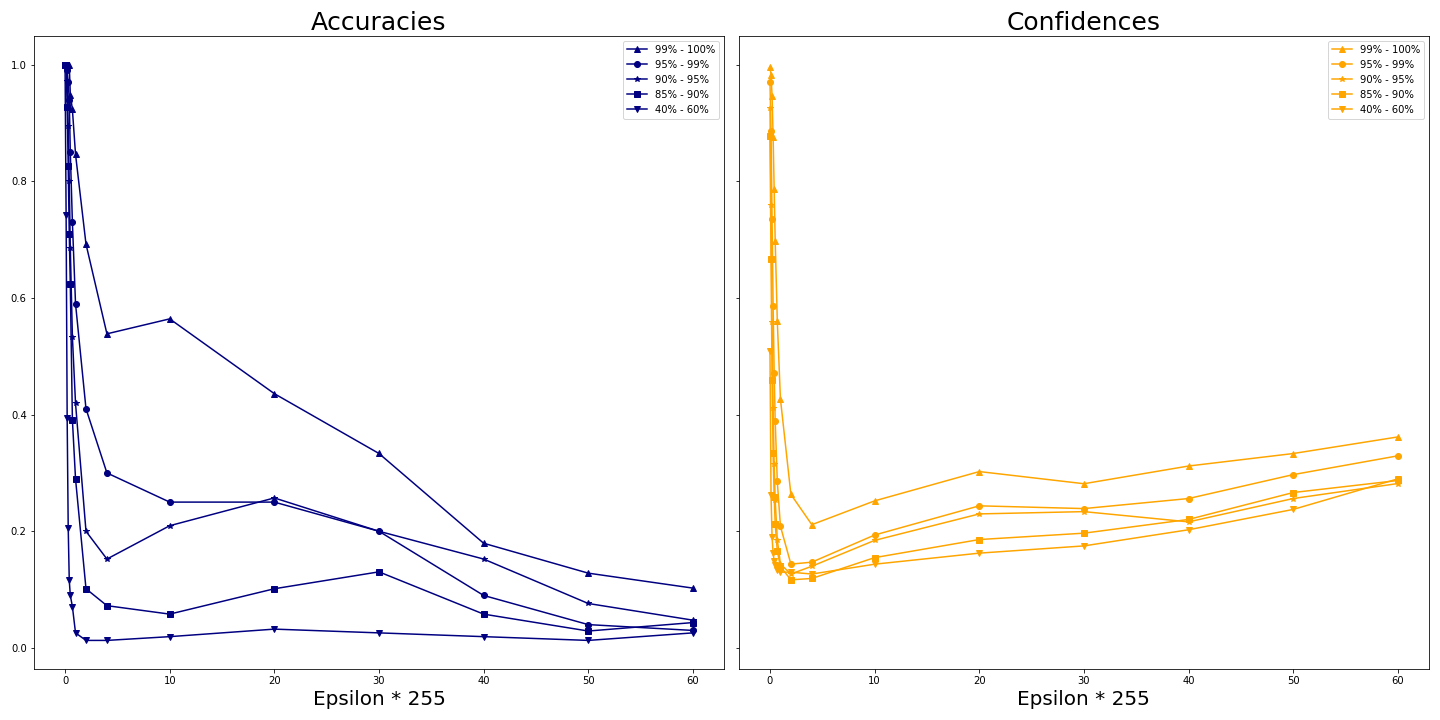
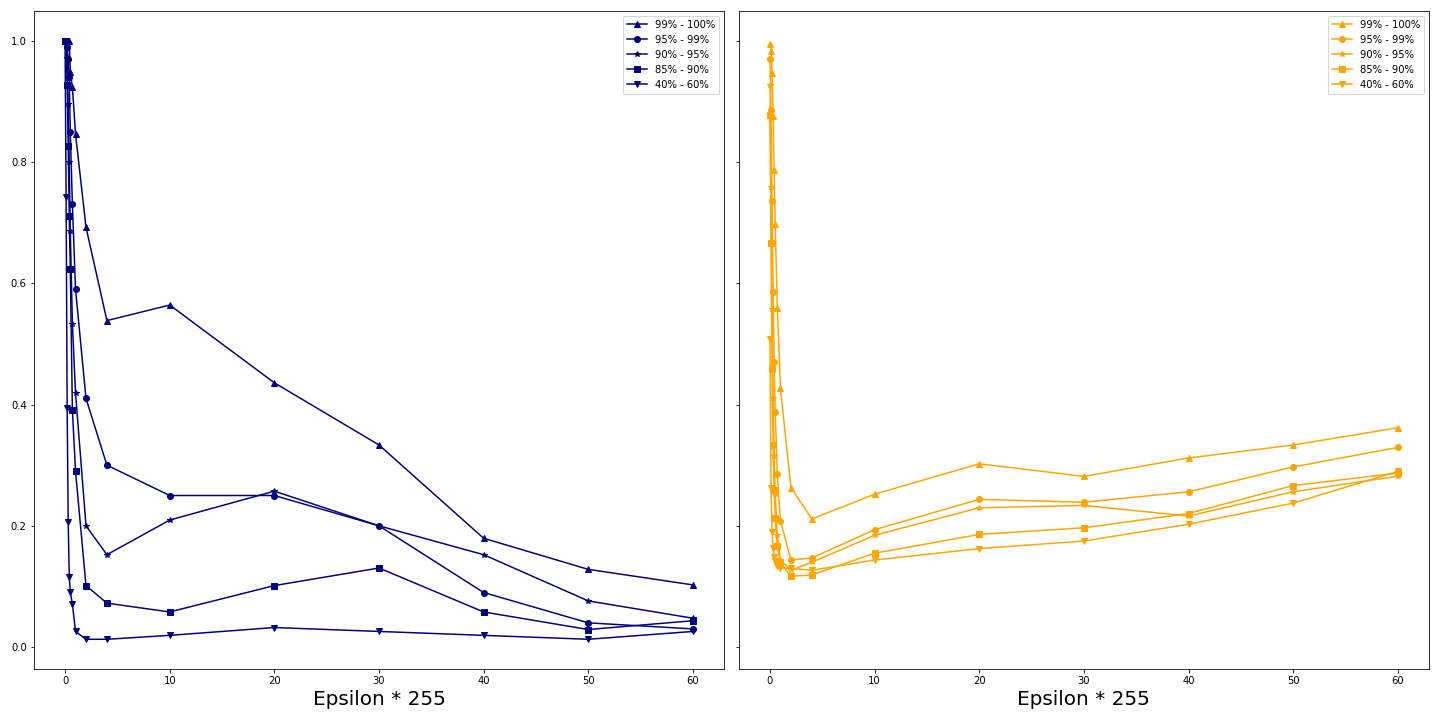
Updated main page and results section

diff --git a/docs/_sass/_layout.scss b/docs/_sass/_layout.scss
@@ -5,6 +5,7 @@ body {
     font-size: 1.1em;
     line-height: 1.6;
     -webkit-font-smoothing: antialiased;
+    scroll-behavior: smooth;
   }
   h1,
   h2,
@@ -40,9 +41,10 @@ body {
  
   header {
     background: $header;
-    padding: 50px 0px;
-    margin: 0px 0 0;
-    height: auto;
+    padding-top: 100px;
+    padding-bottom: 250px;
+    margin: auto;
+    height: 100%;
     width: 100%;
     text-decoration: bold;
     max-width: 8000px;
@@ -251,4 +253,12 @@ body {
       text-align: center;
       font-size: small;
     }
+  }
+
+  figure
+  {
+    font-size: small;
+    color: #444444;
+    max-width: $content-width;
+
   }

diff --git a/docs/_includes/main.html b/docs/_includes/main.html
@@ -1,10 +1,16 @@
 <div class="container">
 	<header>
 		<div class="column">
-			<img src="assets/Main_Page.png" alt="Test Image here" style="width:100%;height:auto;" position: absolute; top: 0; left:0;>
+
+<div style="color:white"> How robust are neural network outputs? </div>	
+
+<div style="color:white"> Consider the following example </div>
+<br>
+			<img src="assets/Main_Page.png" alt="Main page image" style="width:100%;height:auto;" position: absolute; top: 0; left:0;>
 		</div>
 
 		
+
 	</header>
 
 </div>

diff --git a/docs/_includes/image.html b/docs/_includes/image.html
@@ -1,3 +1,4 @@
-<img src="{{ site.baseurl | prepend: site.url | relative_url  }}/assets/{{ include.file }}" width="500" height="600" alt="{{ include.description }}">
-<span class="caption">{{ include.description }}</span>
-
+<figure class="image">
+    <img src="{{ site.baseurl | prepend: site.url | relative_url  }}/assets/{{ include.file }}" alt="{{ include.description }}" width="790">
+    <figcaption>{{ include.description }}</figcaption>
+  </figure>

diff --git a/docs/_sass/_base.scss b/docs/_sass/_base.scss
@@ -7,7 +7,7 @@ $link-hover-color: rgb(245, 11, 11);
 $heading-font: 'Muli', sans-serif;
 $heading-font-color: #020522;
 $light: #e7edf4;
-$header: #ffffff;
+$header: #000000;
 $head: #000000;
 $footer: #3e3f3f;
 $footer-link: #ffffff;

diff --git a/docs/_pages/03_Results.md b/docs/_pages/03_Results.md
@@ -11,12 +11,14 @@ In this section we discuss the performance of the different attacks. First we br
 ## Data Exploration
 The goal of adversarial examples is to fool the network into predicting a wrong class with high confidence. That's why we inspect the confidence of the network on the clean data first.
 
-In the data there are 452 out of 1000 distinct classes represented. The most frequent class is `ballplayer, baseball player` (class index 981) with 8 occurrences, followed by `racer, race car, racing car`, `stone wall` and `worm fence, snake fence, snake-rail fence, ...` with 7 each. Within these frequent classes the model's confidence is around $$58$$% with a standard deviation of around $$27$$. This is probably due to false predictions.
-
-The average confidence for a class is between $$99.99$$% (`barrel, cask`) and $$41.64$$% (`sandal`). In the plot the distribution of the average confidence can be seen. For over half of the examples the model has an average confidence of over $$60$$% and over $$\frac{2}{3}$$ of the examples have a confidence of over $$50$$%.
+In the data there are 452 out of 1000 distinct classes represented. The most frequent class is `ballplayer, baseball player` (class index 981) with 8 occurrences, followed by `racer, race car, racing car`, `stone wall` and `worm fence, snake fence, snake-rail fence, ...` with 7 each. Within these frequent classes the model's confidence is around $$58$$% with a standard deviation of around $$27$$. This is probably due to false predictions. Figure 1 shows how the the top 5 confidence is distributed for different initial confidences.
 
 
-![name of the image](/Adversarial_Examples_GANs/assets/Data_Exploration-Average-confidence_per_class.png){:class="img-responsive"}{:height="100%" width="100%"}
+{% include image.html file="Confidence_Distributions.png" description="Figure 1: Top 5 confidences from 100% to 60% in 5% steps." %}
+
+The average confidence for a class is between $$99.99$$% (`barrel, cask`) and $$41.64$$% (`sandal`). The distribution of the average confidence is shown in figure 2. For over half of the examples the model has an average confidence of over $$60$$% and over $$\frac{2}{3}$$ of the examples have a confidence of over $$50$$%.
+
+{% include image.html file="Data_Exploration-Average-confidence_per_class.png" description="Figure 2: Average confidence per class in descending order. The majority of classes consists of one sample only. The highest number of samples per class is 8." %}
 
 
 The table shows the model's overall performance.
@@ -34,13 +36,13 @@ Top 1 means that the predicted class is the correct class. Top 5 means that the 
 
 The following is an example of the original image, the generated perturbance and the resulting adversarial image using the Fast Gradient Sign Method:
 
-![FGSM Attack](/Adversarial_Examples_GANs/assets/Sample_766_pair.png){:class="img-responsive"}{:height="100%" width="100%"}
+{% include image.html file="Sample_766_pair.png" description="Figure 3: Original image, the with the FGSM generated perturbance and resulting adversarial image. This attack decreases the network’s confidence from almost 100% down to 14%" %}
 
 The adversarial image appears slightly more blurry than the original one, like for example taken at poor a resolution. Without the reference image however, it can be hard to tell that it has been modified. With increasing attack strength this becomes more and more obvious as can be seen in the following images:
 
-![FGSM Attack](/Adversarial_Examples_GANs/assets/Sample_766_series.png){:class="img-responsive"}{:height="100%" width="100%"}
+{% include image.html file="Sample_766_series.png" description="Figure 4: Original image and a series of adversarial images with increasing attack intensity. The values for epsilon are: 0, 4/255, 8/255, 12/255 and 16/255. Subjectively, at around 12/255 the attack becomes noticeable." %}
 
-Here the values for epsilon are: 0, 4/255, 8/255, 12/255 and 16/255. The image appears more and more noisy. We later show methods which produce cleaner looking adversaries.
+The image appears more and more noisy. We later show methods which produce cleaner looking adversaries.
 
 But how effective is this attack in tricking the network? Recall that we want to produce images which cause a prediction of a wrong class at a high confidence. From the figure below you can see that the confidence drops sharply while the class changes only for a few epsilons. The example above is the sample with which the model has the highest confidence on clean data. We have seen this behaviour with other images with high confidence in the dataset. This leads us to the first hypothesis:
 
@@ -52,7 +54,22 @@ We consider a plot of accuracy and confidence over the attack strength epsilon. 
 
 Recall from the section Data Exploration how the confidence over all data is distributed. We consider correct initial classifications only and split the data by confidences in the interval of 5% points.
 
-![FGSM Attack](/Adversarial_Examples_GANs/assets/Accuracies_Confidences.png){:class="img-responsive"}{:height="100%" width="100%"}
+{% include image.html file="Accuracies_Confidences.png" description="Figure 5: Accuracy (left) and confidence (right) for different initial confidences over increasing attack intensity. Only if the prediction on the clean image is correct an adversary is generated." %}
+
+
+### Individual Images
+We find some exceptions. Figure 6 shows two samples where the FGSM is not able to change the class. Moreover, also the lowest confidence remains fairly large. After an initial sudden decrease in confidence, it increases again. In the first example even almost up to clean levels.
+
+{% include image.html file="Individual_Images-Same_Class.png" description="Figure 6: Two examples for class-invariance under FGSM. On the left is the clean example. Next to it the confidence and if class is correct or not over multiple epsilons. The third plot shows the top 5 confidence for the clean case, whereas the rightmost plot shows the top 5 confidence for the worst case. The confidence increases again after an initial dip." %}
+
+A smaller increase in confidence after a dip can also be seen in figure 7. Despite the high initial confidence the adversary is able to change the class here. However, with a stronger attack the model predicts the correct class again. We found this behaviour of a bounce back to the correct class frequently for high initial confidences. Around the epsilon where the class changes we found that the highest and second highest confidences are very similar, whereas the gap to the third highest remains. The decrease in prediction confidence causes the second highest confidence to grow over proportionally which leads to the swap at the lowest point.
+
+{% include image.html file="Individual_Images-Bounce_Back.png" description="Figure 7: Two examples where the adversary is able to change the class. However, for further increase in attack intensity the model recovers and predicts the correct class while being increasingly confident again. The rightmost plot shows the top 5 confidence for the smallest epsilon where a false class is predicted."%}
+
+The previous examples showed images with high initial confidence. It is not possible to generate an adversary with higher confidence than the original one for these cases. Figure 8 shows where it is possible. The initial confidence is quite low (around 50%). The FGSM can manipulate this image easily and achieves a confidence of 80%!
+
+{% include image.html file="Individual_Images-Sample_258.png" description="Figure 8:  Example for low initial confidence and greater adversarial confidence. Note how a small perturbation achieves the best results here. In this particular attack the perturbation is so slight that it is not representable in an 8bit image."%}
+
 
 ## BIM
 
